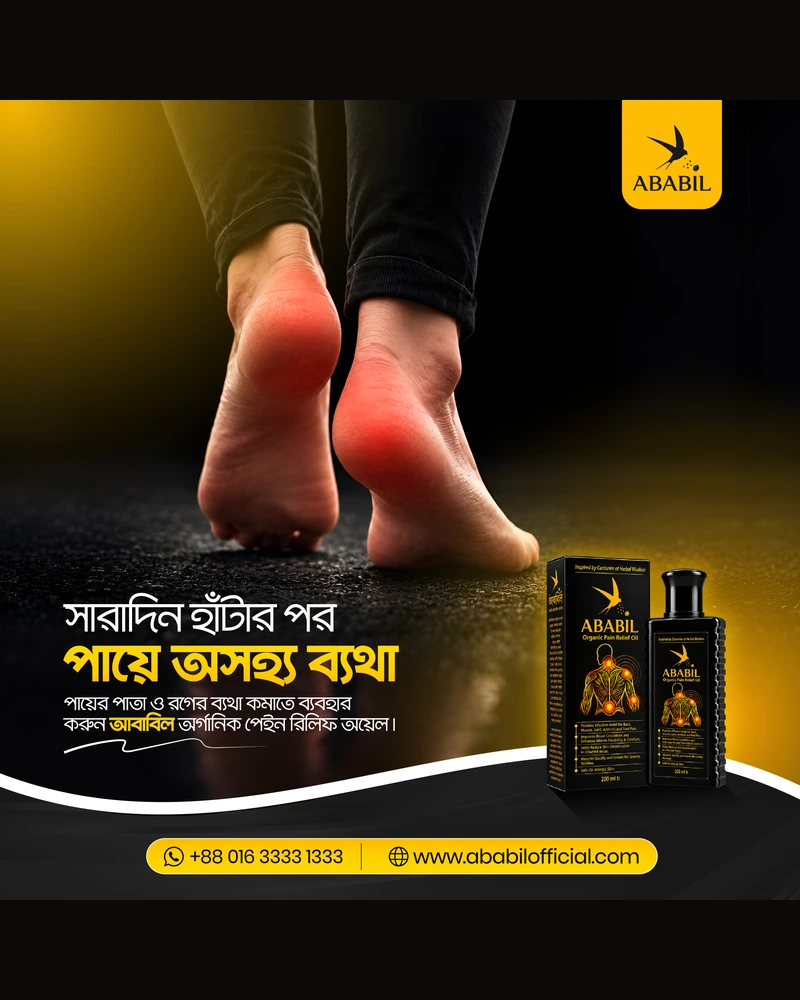
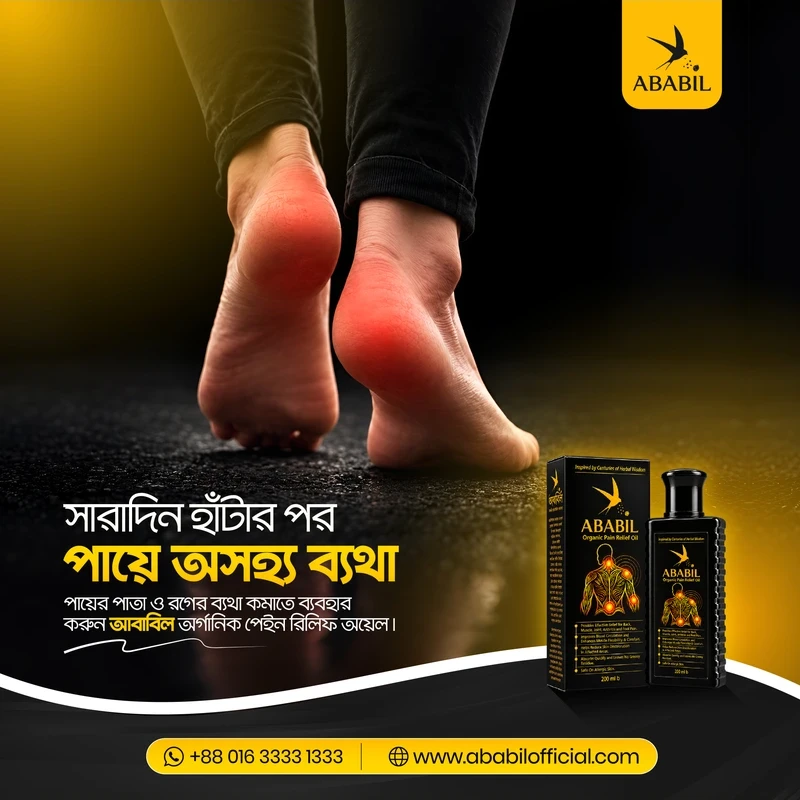
image: container sized to image

diff --git a/resources/js/components/landing/problem-section.tsx b/resources/js/components/landing/problem-section.tsx
@@ -94,7 +94,7 @@ export default function ProblemSection() {
                                     />
                                     <TiltCard
                                         strength={7}
-                                        className="relative aspect-[4/5] overflow-hidden rounded-[2.25rem] border border-amber-200/80 bg-stone-950 shadow-2xl shadow-amber-900/20 transition-shadow duration-1000 group-hover:shadow-amber-500/30"
+                                        className="relative overflow-hidden rounded-[2.25rem] border border-amber-200/80 bg-stone-950 shadow-2xl shadow-amber-900/20 transition-shadow duration-1000 group-hover:shadow-amber-500/30"
                                     >
                                         <motion.img
                                             src={image}
@@ -106,9 +106,8 @@ export default function ProblemSection() {
                                                 duration: 1.7,
                                                 ease: [0.16, 1, 0.3, 1],
                                             }}
-                                            className="absolute inset-0 size-full object-cover"
+                                            className="block h-auto w-full object-contain"
                                         />
-                                        <div className="absolute inset-0 bg-gradient-to-t from-stone-950/80 via-stone-950/10 to-transparent" />
                                     </TiltCard>
                                     <span className="absolute -top-6 -left-6 flex size-[4.5rem] items-center justify-center rounded-full border-4 border-amber-50 bg-stone-950 font-bengali text-2xl font-bold text-amber-300 shadow-lg">
                                         {bnDigits[i]}

diff --git a/resources/js/components/landing/site-header.tsx b/resources/js/components/landing/site-header.tsx
@@ -65,10 +65,6 @@ export default function SiteHeader({ phone }: { phone: string | null }) {
             >
                 <div
                     aria-hidden
-                    className="animate-border-spin absolute inset-0 rounded-full bg-[conic-gradient(from_0deg,transparent_0%,rgba(251,191,36,0.9)_8%,transparent_22%,transparent_100%)] opacity-70"
-                />
-                <div
-                    aria-hidden
                     className="absolute inset-0 rounded-full border border-amber-400/15"
                 />
 
